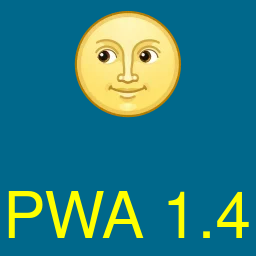
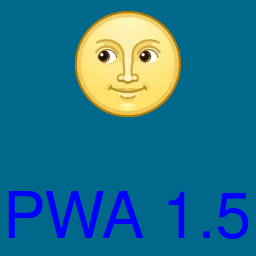
ver. 1.5

Changed region(s): [[0.0312, 0.7188, 0.5625, 0.9375], [0.7812, 0.75, 0.9688, 0.9375], [0.6562, 0.75, 0.75, 0.9375]]

diff --git a/app.html b/app.html
@@ -6,6 +6,6 @@
     <link rel="manifest" href="manifest.json" />
   </head>
   <body style="background: deepskyblue;">
-    <p>App page ver. 1.4</p>
+    <p>App page ver. 1.5</p>
   </body>
 </html>
